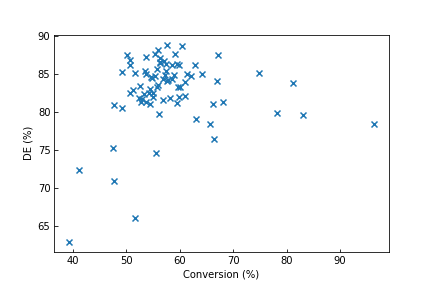
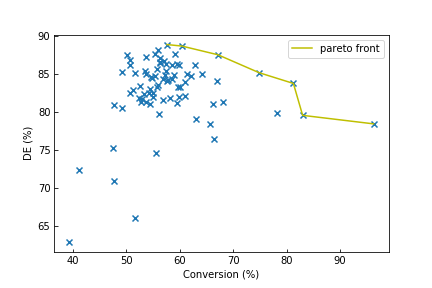
Update in-silico studies with pareto front calculation

diff --git a/case_studies/in_silico_studies/solvent_optimization.py b/case_studies/in_silico_studies/solvent_optimization.py
@@ -167,6 +167,40 @@ def run_optimization(tsemo, initial_experiments,solvent_ds,
 
     return previous_experiments, lengthscales,log_likelihoods, loo_errors, 
 
+def pareto_coverage(pareto_front, design):
+    '''Calculate the percentage of the pareto front covered by a design'''
+    pareto_size = pareto_front.shape[0]
+    num_covered = 0
+    for point in design:
+        index = np.where(np.isclose(pareto_front, design).all(axis=1))[0]
+        if len(index) == 0:
+            continue
+        else:
+            num_covered += 1
+    return num_covered/pareto_size
+
+def pareto_front(points):
+    '''Calculate the pareto front of a 2 dimensional set'''
+    try:
+        assert points.all() == np.atleast_2d(points).all()
+        assert points.shape[1] == 2
+    except AssertionError:
+        raise ValueError("Points must be 2 dimensional.")
+
+    sorted_indices = np.argsort(points[:, 0])
+    sorted = points[sorted_indices, :]
+    front = np.atleast_2d(sorted[-1, :])
+    front_indices = sorted_indices[-1]
+    for i in range(2, sorted.shape[0]+1):
+        if np.greater(sorted[-i, 1], front[:, 1]).all():
+            front = np.append(front, 
+                              np.atleast_2d(sorted[-i, :]),
+                              axis=0)
+            front_indices = np.append(front_indices,
+                                      sorted_indices[-i])
+    return front, front_indices
+    
+
 
 def descriptors_optimization(batch_size=constants['BATCH_SIZE'],
                              num_batches=constants['NUM_BATCHES'],
